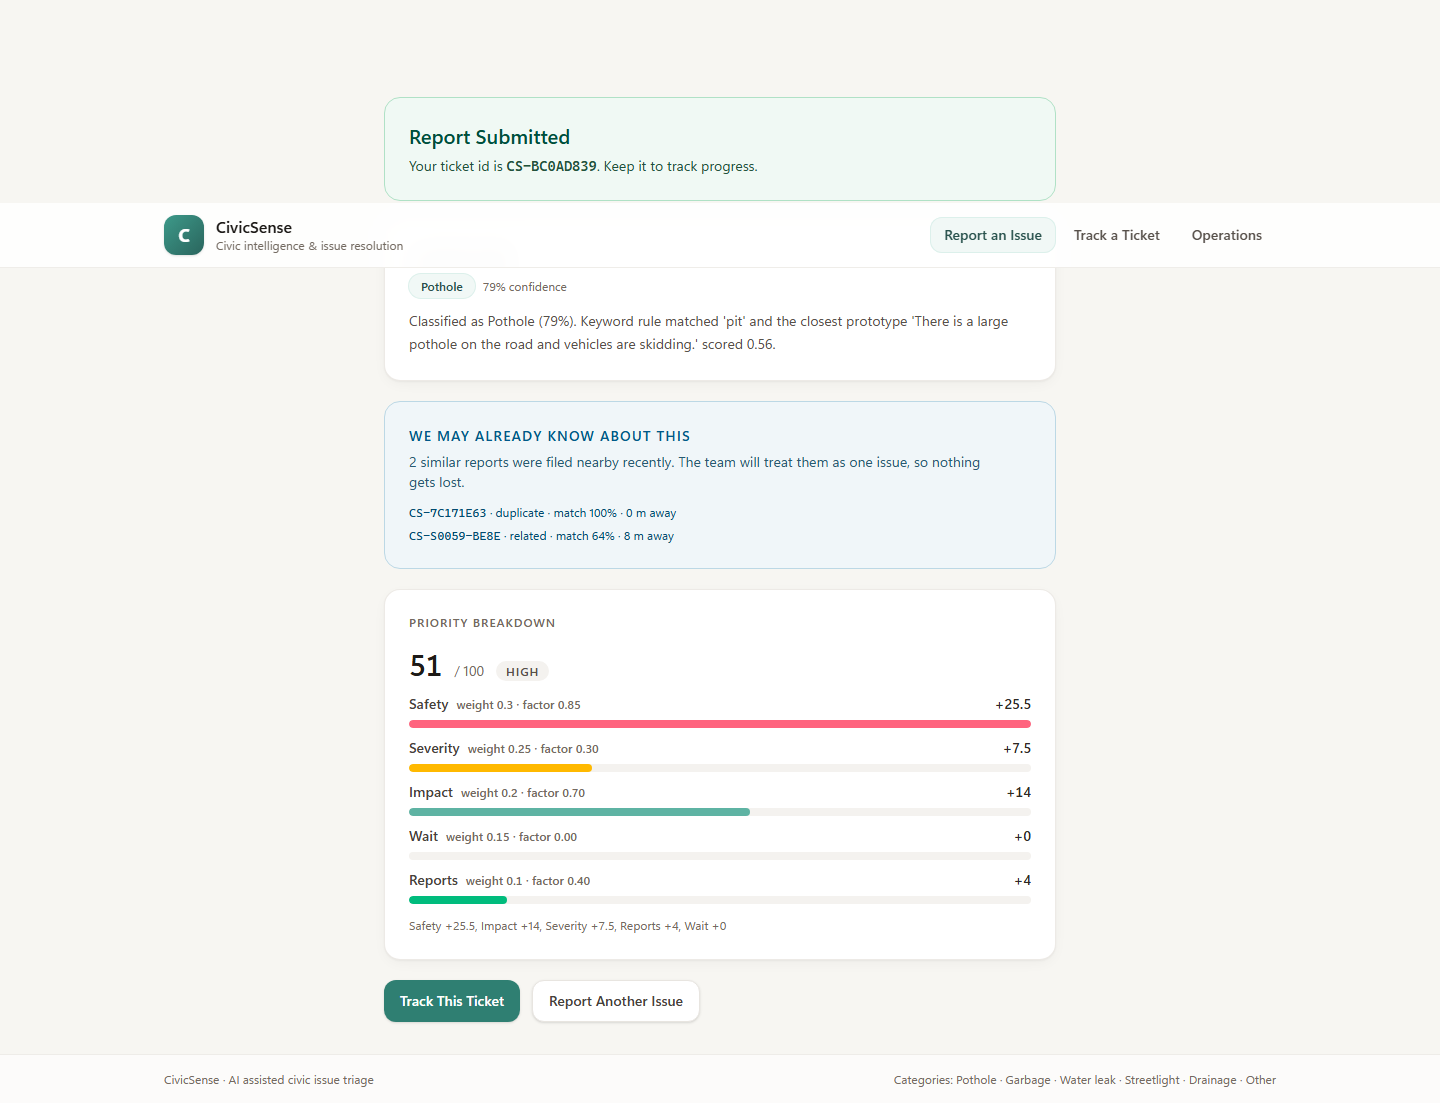
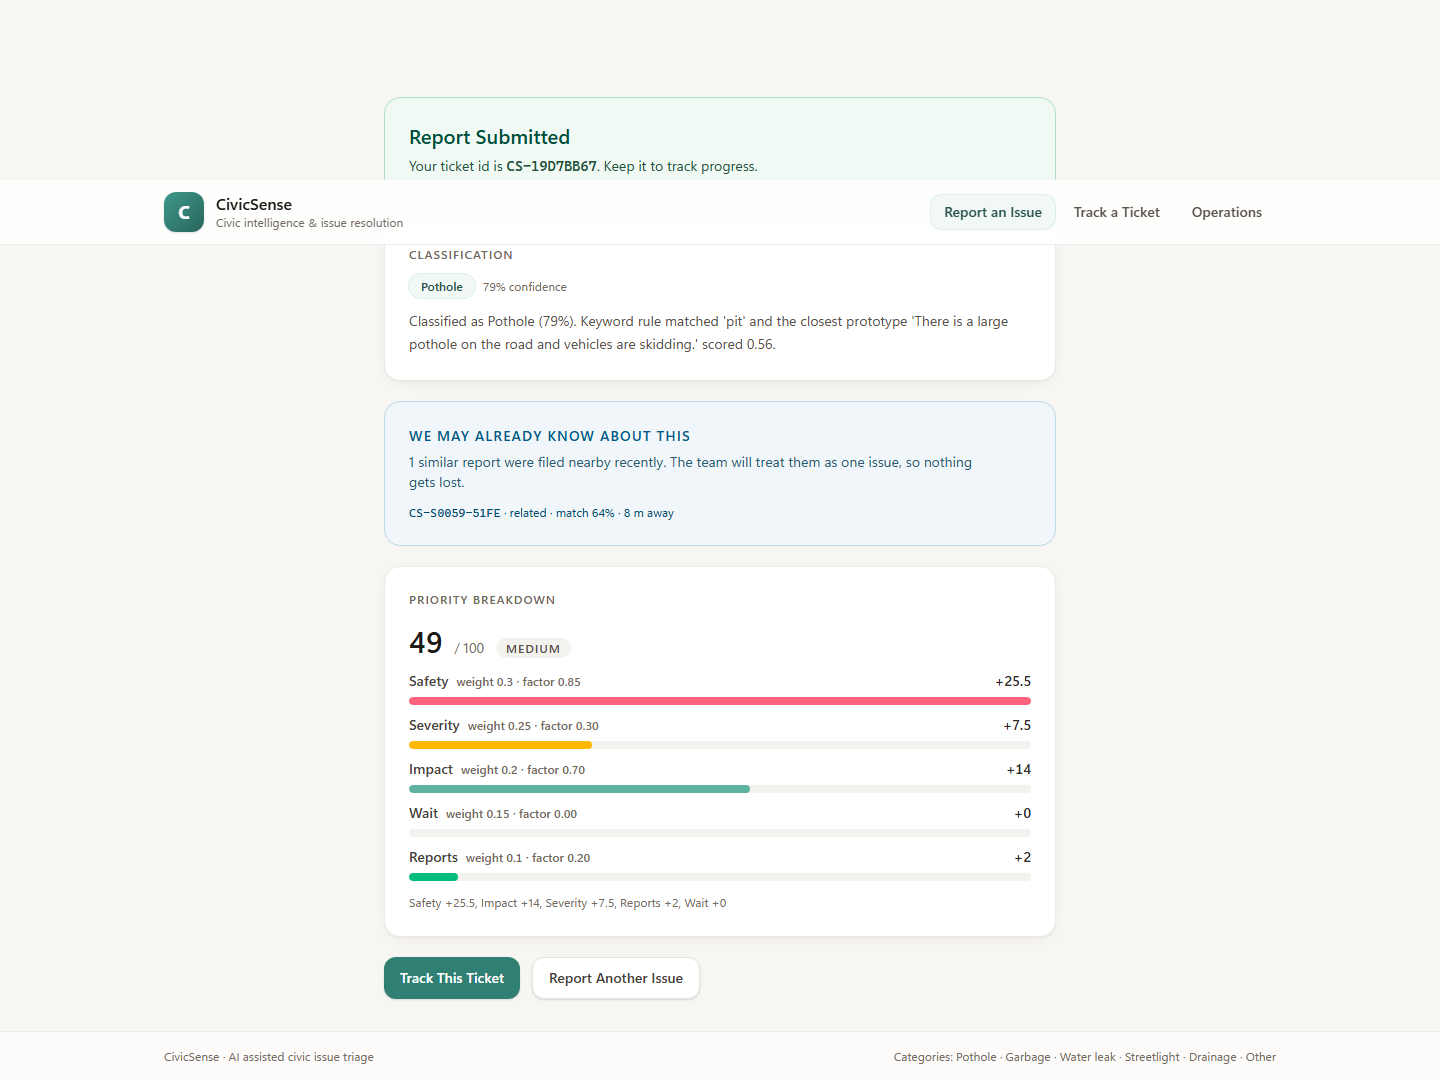
Add the Vercel deployment flow and make the build deployable
DEPLOY.md walks through the three services the app needs: the web app on
Vercel, the API on Render or Railway, and the database on Neon with
PostGIS, with the environment variables, the CORS step, the verification
commands and a troubleshooting table.

Code changes for the deployment
- The API base URL is now VITE_API_URL, so a deployed build talks to the
  API directly while the local build keeps using the dev proxy
- frontend/vercel.json serves the single page app, so /dashboard, /login
  and /ticket load instead of returning a 404
- The Docker image takes an INSTALL_CLIP build argument, so the photo
  classifier is opt in instead of always two gigabytes larger
- The vite client types were added so import.meta.env type checks

The backend cannot run on Vercel as a server, and DEPLOY.md says so
plainly instead of pretending otherwise.

diff --git a/frontend/src/api.ts b/frontend/src/api.ts
@@ -13,7 +13,9 @@ import type {
   WorkloadRow,
 } from "./types";
 
-const BASE = "/api";
+// In development the Vite dev server proxies "/api" to the local backend.
+// A deployed build talks to the API directly, so VITE_API_URL points at it.
+const BASE = import.meta.env.VITE_API_URL ?? "/api";
 
 export class ApiError extends Error {
   status: number;

diff --git a/DEPLOY.md b/DEPLOY.md
@@ -1,0 +1,234 @@
+# Deploying CivicSense
+
+The application has three parts, and they live on three different services:
+
+| Part | Where it goes | Why |
+| --- | --- | --- |
+| React web app | **Vercel** | A static build, which is exactly what Vercel serves best |
+| FastAPI service | **Render / Railway / Fly.io** | Vercel cannot run a long-lived Python server |
+| PostgreSQL + PostGIS | **Neon / Aiven / Supabase** | A managed database with the PostGIS extension |
+
+> **Can the backend live on Vercel too?**
+> Not as a server. Vercel runs stateless functions with a short execution
+> limit, and this API keeps a database pool, loads a sentence-transformer
+> model into memory and holds open HTTP connections. Wrapping it in a
+> serverless function would mean rewriting the service, slowing it down
+> and losing the model cache. Put the API on a Python host and keep Vercel
+> for the web app, which is the arrangement this guide follows.
+
+---
+
+## 0. What you need before you start
+
+- A GitHub repository with this project pushed
+- A Vercel account (free tier is enough)
+- A Neon account for the database (free tier is enough)
+- A Render or Railway account for the API (free tier is enough)
+
+Push the project first:
+
+```powershell
+cd D:\hakathon
+git remote add origin https://github.com/<your-user>/civicsense.git
+git push -u origin main
+```
+
+---
+
+## 1. The database (Neon, with PostGIS)
+
+Neon gives you a PostgreSQL database with the PostGIS extension.
+
+1. Go to <https://console.neon.tech> → **Create a project**
+2. Name it `civicsense`, pick the region closest to your users
+   (`Azure India - West` or `AWS Asia Pacific` for Mumbai)
+3. Neon asks for a plan → choose **Free**
+4. Open the project → **Extensions** → add **postgis** → enable it
+   (or run `CREATE EXTENSION IF NOT EXISTS postgis;` in the SQL editor)
+5. Open **Connection string** → copy the **direct** (not the pooled) URI
+   and swap the scheme for this project:
+
+```
+postgresql+psycopg://<user>:<password>@<host>/<database>?sslmode=require
+```
+
+> Use the **direct** connection string. The pooled one runs through
+> PgBouncer, which breaks the prepared statements SQLAlchemy uses.
+> For a demo with one or two API instances the direct URL is fine.
+
+Keep this URL, you need it in step 2 and step 3.
+
+---
+
+## 2. The API (Render)
+
+1. Go to <https://render.com> → **New** → **Web Service** → connect the
+   GitHub repository
+2. Settings:
+   - **Root Directory**: `backend`
+   - **Runtime**: Docker
+   - **Health Check Path**: `/health`
+   - **Instance Type**: Free
+3. **Environment variables**:
+
+   | Key | Value |
+   | --- | --- |
+   | `DATABASE_URL` | the direct Neon URL from step 1 |
+   | `CIVICSENSE_CORS_ORIGINS` | `http://localhost:5173` for now, your Vercel domain in step 4 |
+   | `CIVICSENSE_CLIP_ENABLED` | `0` (leave the photo classifier off, see below) |
+
+4. **Create Web Service** → the first build pulls the base image and
+   installs the requirements, which takes a few minutes
+5. When it is green, Render gives you a URL like
+   `https://civicsense-api.onrender.com`
+6. Check it: open `https://civicsense-api.onrender.com/health`
+
+```json
+{"status": "ok", "database": "ok", "model_version": "minilm-l6-v2@2026-10"}
+```
+
+`"database": "ok"` proves the API reached Neon. If it says `unavailable`,
+the connection string is wrong.
+
+### Load the schema and the sample data
+
+Run this once against the production database, from your machine:
+
+```powershell
+$env:DATABASE_URL = "postgresql+psycopg://<user>:<password>@<host>/<database>?sslmode=require"
+cd D:\hakathon\backend
+..\.venv\Scripts\python scripts\init_db.py
+..\.venv\Scripts\python scripts\seed.py --reset
+```
+
+`init_db.py` creates the tables, enables PostGIS and writes the three
+accounts. `seed.py --reset` loads 60 sample reports so the dashboard has
+something to show.
+
+### Turning the photo classifier on (optional)
+
+CLIP makes the Docker image about 2 GB larger and the first request slower,
+because the weights load on demand. To enable it, build the image with the
+build argument:
+
+```dockerfile
+ARG INSTALL_CLIP=1
+```
+
+On Render, set the environment variable `INSTALL_CLIP=1` and add it to the
+Docker build arguments, then set `CIVICSENSE_CLIP_ENABLED=1` and
+`CIVICSENSE_CLIP_MODEL=openai/clip-vit-base-patch32` in the service
+settings.
+
+---
+
+## 3. The web app (Vercel)
+
+1. Go to <https://vercel.com> → **Add New** → **Project** → **Import** the
+   repository
+2. Project settings:
+   - **Framework Preset**: Vite
+   - **Root Directory**: `frontend`
+   - **Build Command**: `npm run build`
+   - **Output Directory**: `dist`
+   - **Install Command**: `npm install`
+3. **Environment variables** → add:
+
+   | Key | Value |
+   | --- | --- |
+   | `VITE_API_URL` | `https://civicsense-api.onrender.com` (your API URL) |
+
+   This is the address the browser calls. Without it the app would look for
+   `/api` on the Vercel domain and find nothing.
+4. **Deploy** → Vercel builds and gives you `https://civicsense.vercel.app`
+
+The `frontend/vercel.json` in the repository already handles the client
+side routing, so `/dashboard`, `/login` and `/ticket` load the app instead
+of returning a 404.
+
+---
+
+## 4. Let the two talk to each other
+
+The browser calls the API from the Vercel domain, so the API has to allow
+it.
+
+1. Copy your Vercel URL, for example `https://civicsense.vercel.app`
+2. In Render, open the service → **Environment** → set:
+
+   ```
+   CIVICSENSE_CORS_ORIGINS = http://localhost:5173,https://civicsense.vercel.app
+   ```
+
+3. **Save and restart** the service
+4. Open the Vercel URL, sign in with `admin` / `1234` and check that the
+   dashboard loads
+
+If you add a custom domain later, add that domain to the same variable and
+restart the API again.
+
+---
+
+## 5. Check the deployment
+
+```powershell
+# the API is alive and can reach the database
+curl https://civicsense-api.onrender.com/health
+
+# the admin login works against the production API
+curl -X POST https://civicsense-api.onrender.com/auth/login `
+  -H "Content-Type: application/json" `
+  -d '{\"username\":\"admin\",\"password\":\"1234\"}'
+
+# the queue comes back with a token
+curl https://civicsense-api.onrender.com/complaints?limit=3 `
+  -H "Authorization: Bearer <token from the step above>"
+```
+
+The acceptance suite can run against the live API as well:
+
+```powershell
+cd D:\hakathon\backend
+..\.venv\Scripts\python scripts\verify.py
+```
+
+It expects the API on `http://127.0.0.1:8000`; change the `API` constant at
+the top of the script to point at the deployed URL first.
+
+---
+
+## Troubleshooting
+
+| Symptom | Cause and fix |
+| --- | --- |
+| Blank page, `GET /api/...` fails in the console | `VITE_API_URL` is missing or wrong on Vercel. Settings → Environment Variables → redeploy. |
+| "Wrong username or password" but the credentials are right | The browser is calling a different API than the one you seeded. Check `VITE_API_URL`. |
+| `CORS` error in the console | The Vercel domain is missing from `CIVICSENSE_CORS_ORIGINS` on the API. Add it and restart the API. |
+| `/dashboard` returns 404 | The SPA rewrite is missing. `frontend/vercel.json` must be committed and the Root Directory must be `frontend`. |
+| `/health` says `"database": "unavailable"` | The `DATABASE_URL` is wrong, or PostGIS is not enabled on the Neon project. |
+| The first request takes 30 seconds | The sentence-transformer model loads on first use. It is cached in memory afterwards. |
+| The API sleeps after 15 minutes | The Render free tier sleeps idle instances. The first request after a sleep takes a few seconds. |
+| `relation "location_label" does not exist` | `init_db.py` has not been run against the production database. Run it from step 2. |
+
+---
+
+## Keeping costs down
+
+- Vercel free: 100 GB bandwidth a month, more than a demo needs
+- Neon free: 0.5 GB of storage, the seeded corpus is a few megabytes
+- Render free: one instance that sleeps when idle, enough for a demo
+
+If the API sleeps too often, upgrade that one service; the web app and the
+database stay on the free tier.
+
+---
+
+## What is live after the three steps
+
+| | |
+| --- | --- |
+| Web app | `https://civicsense.vercel.app` |
+| API | `https://civicsense-api.onrender.com` |
+| API docs | `https://civicsense-api.onrender.com/docs` |
+| Admin | `admin` / `1234` |
+| Database | Neon, PostgreSQL 16 with PostGIS |

diff --git a/README.md b/README.md
@@ -96,6 +96,13 @@ npm run dev
 Or just run `scripts\run.bat` — it starts the database, the API and the web app
 and opens the browser. `scripts\run.bat --stop` shuts them down again.
 
+### Deploying it
+
+See [DEPLOY.md](DEPLOY.md) for the full flow — the web app on **Vercel**, the
+API on **Render** or **Railway**, and the database on **Neon** with PostGIS —
+including the environment variables, the CORS step and a troubleshooting
+table.
+
 ### Demo accounts
 
 | Username | Password | Role |
@@ -119,6 +126,7 @@ Copy `.env.example` to `.env` in the repository root and adjust:
 | `CIVICSENSE_MODEL_VERSION` | `minilm-l6-v2@2026-10` | Version stamped on every AI decision |
 | `CIVICSENSE_CLIP_ENABLED` | `0` | Enable zero-shot photo classification |
 | `CIVICSENSE_CLIP_MODEL` | `openai/clip-vit-base-patch32` | CLIP checkpoint |
+| `VITE_API_URL` | unset | Deployed builds call the API here instead of `/api` |
 
 Tunables that are not deployment specific — category prototypes, priority
 weights, review thresholds, duplicate scoring, routing rules — live in
